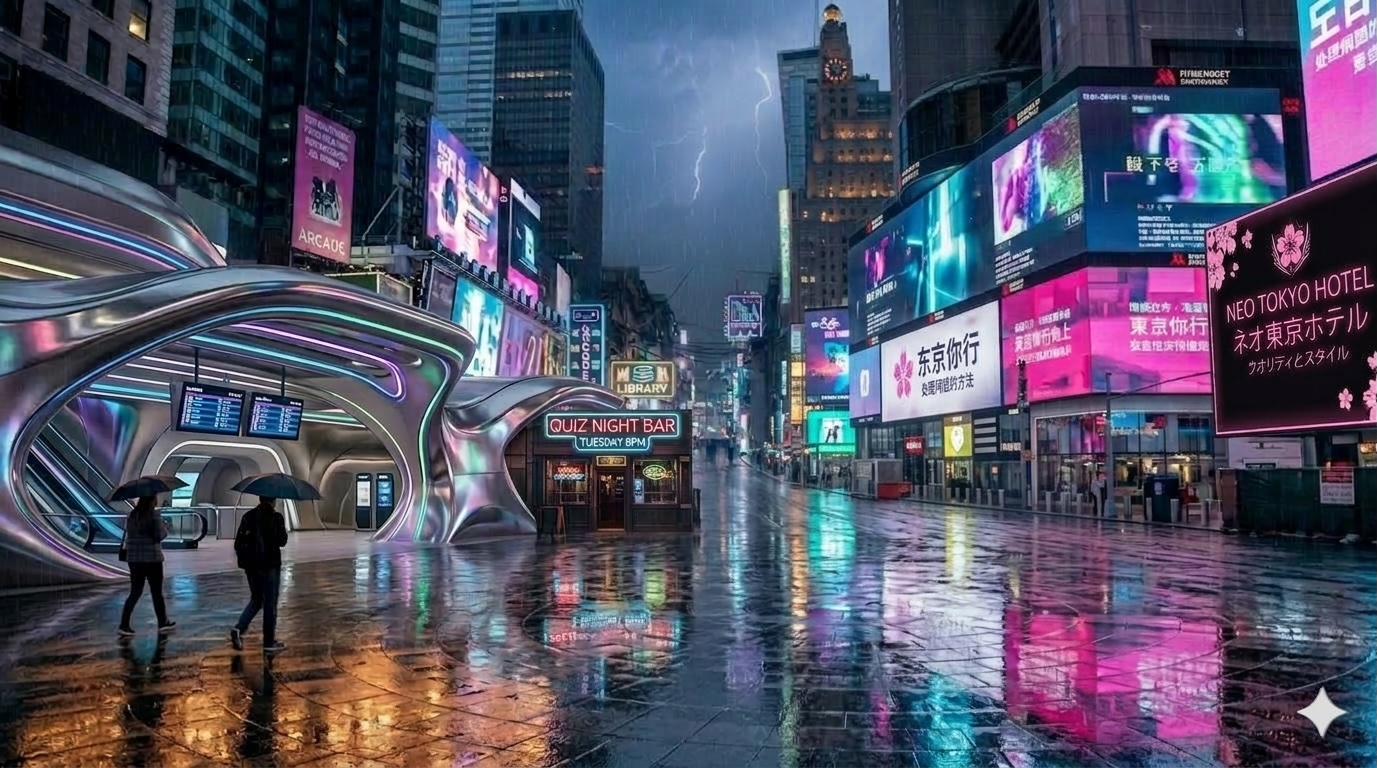
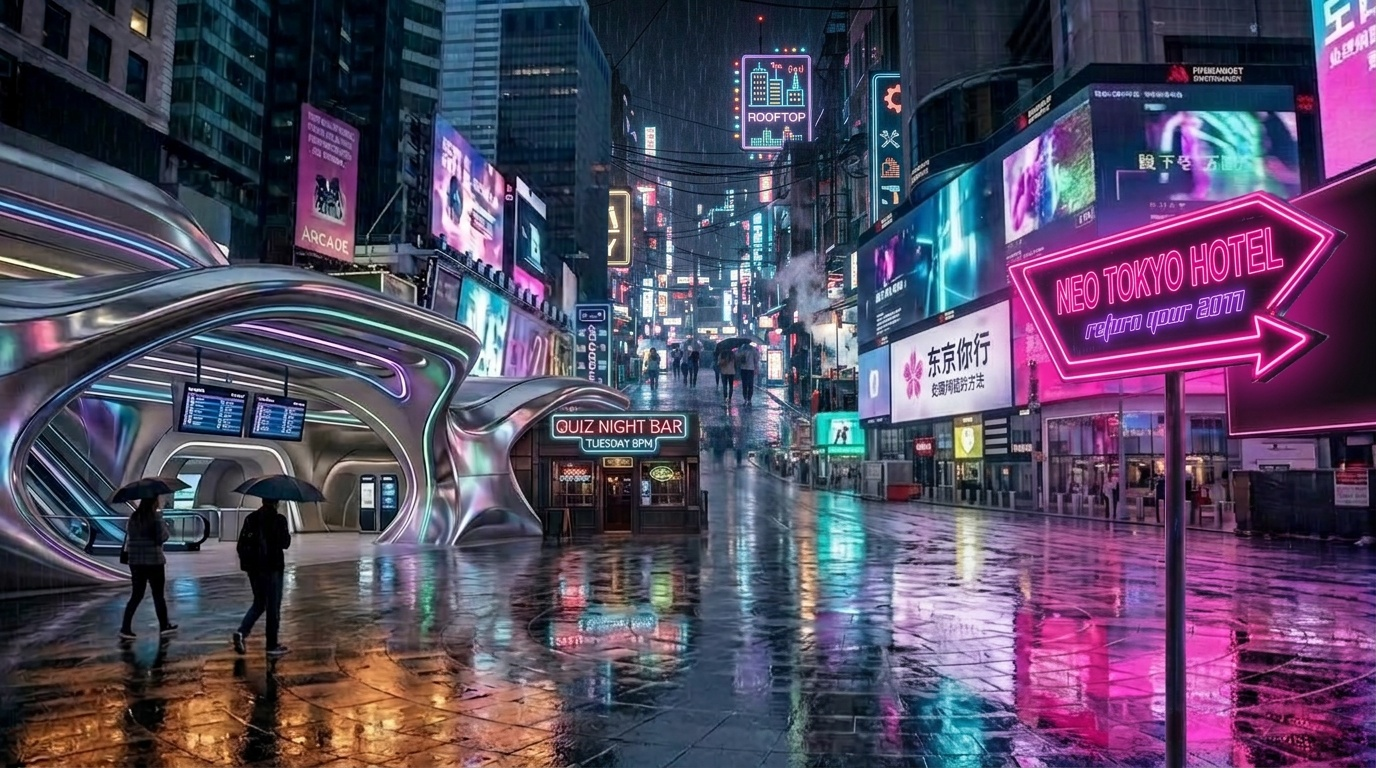
feat(square): show the way back to the street and on to the hotel in the picture
New Nano Banana Pro edit of the square: the alley back to the street is drawn
with the street's own signs down it, a pink neon sign in the hotel's style
points right to the Neo Tokyo Hotel, and the stray LIBRARY sign above the bar
is gone. Hotspots follow the new picture. The spec gains a wayfinding section:
immersion first, hint labels only as a later fallback.

diff --git a/places/square.html b/places/square.html
@@ -142,17 +142,17 @@
 </head>
 <body>
   <main class="scene">
-    <img class="bg" src="../pics/square-main.jpg" alt="Rainy neon side street with glowing billboards, a bright doorway, and a metro entrance.">
+    <img class="bg" src="../pics/square-main.jpg" alt="Rainy neon square: a metro entrance, a quiz bar, the alley back to the street in the distance, and a pink neon sign pointing right to the Neo Tokyo Hotel.">
     <div class="vignette" aria-hidden="true"></div>
     <div class="spot" aria-hidden="true"></div>
     <canvas class="rain" aria-hidden="true"></canvas>
 
     <svg class="hotspots" viewBox="0 0 1376 768" preserveAspectRatio="xMidYMid slice" aria-label="City square hotspots">
       <a href="hotel.html" aria-label="Neo Tokyo Hotel">
-        <rect x="1000" y="230" width="376" height="410" rx="14" ry="14"></rect>
+        <rect x="1000" y="185" width="376" height="455" rx="14" ry="14"></rect>
       </a>
       <a href="street.html" aria-label="Street">
-        <rect x="690" y="280" width="250" height="250" rx="14" ry="14"></rect>
+        <rect x="590" y="40" width="270" height="490" rx="14" ry="14"></rect>
       </a>
       <a href="station.html" aria-label="Station">
         <rect x="60" y="235" width="400" height="500" rx="14" ry="14"></rect>

diff --git a/docs/city.md b/docs/city.md
@@ -106,6 +106,20 @@ All project JS was consolidated into `city/js/`:
   `music: false` hides the music button, `immersive: true` hides all corner buttons and the flashlight beam.
   The shell resets both on every `city:scene` message, so other scenes are unaffected.
 
+## Wayfinding: immersion first
+
+The City should feel like a place you walk through, not a website: no labels floating in the air,
+no "click here". You find your way the way you would in a real city: by signs, doors, light and
+what you recognise from where you've been. When a way isn't obvious, fix the picture first
+(a sign, a lit doorway, a recognisable street end), not the interface.
+
+- Square: the alley back to the street is drawn with the street's own signs (ROOFTOP, WORKSHOP,
+  ARCADE) visible down it; a pink neon sign in the hotel's style points right to the Neo Tokyo Hotel.
+
+Possible later (not now, it works against immersion): hint labels like the booth's, flashing on
+entry and showing on hover ("↩ STREET", "NEO TOKYO HOTEL ▸"). Keep it as a fallback if people
+still get lost after the pictures are clear.
+
 ## Listening booth
 
 `places/booth.html` (library → stairs → `upstairs.html` → booth) plays the records from the
